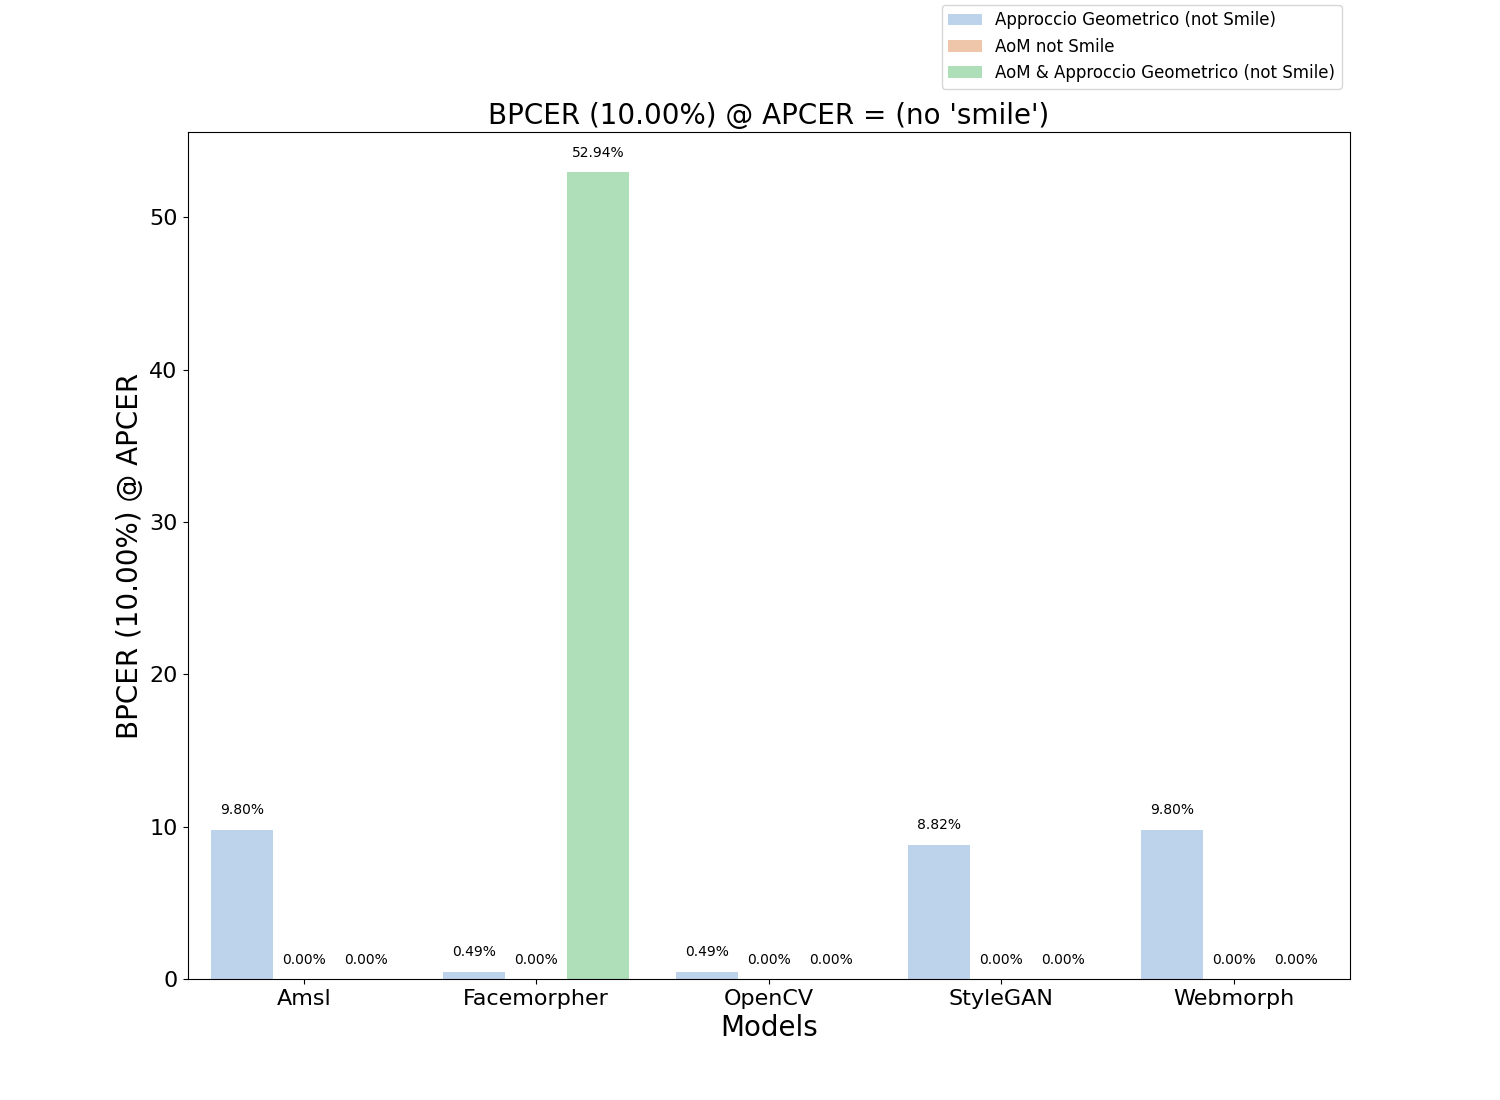
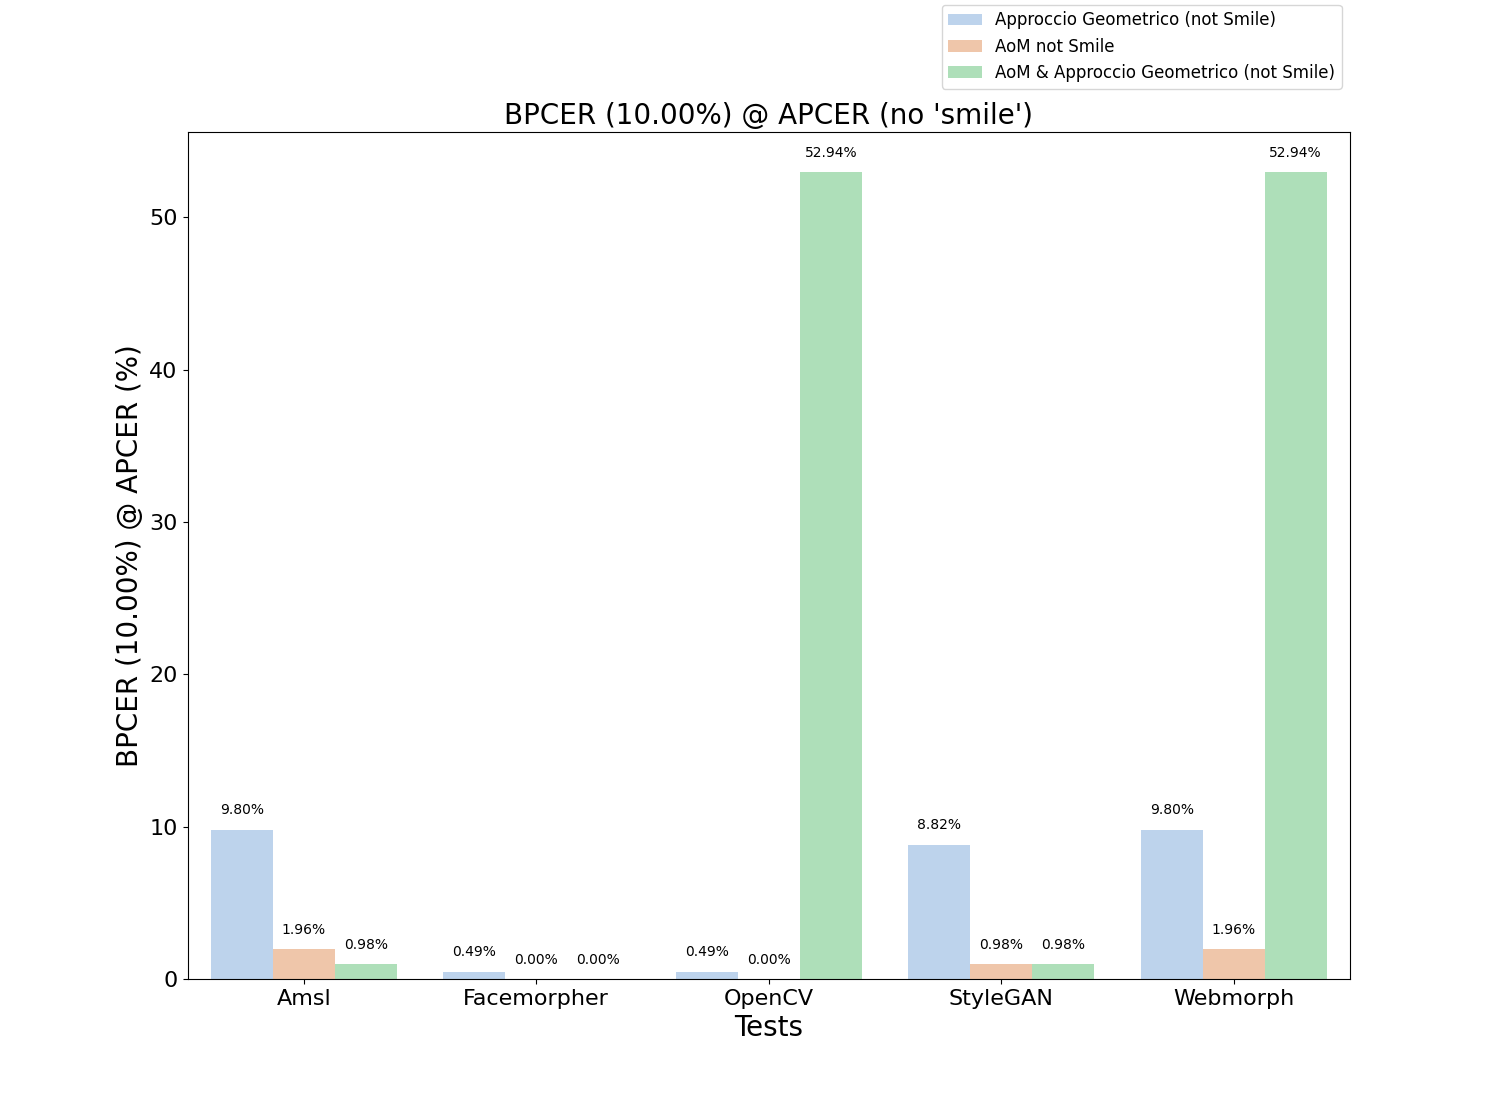
grafici

diff --git a/code/statistical_graphs.py b/code/statistical_graphs.py
@@ -8,11 +8,16 @@ models = ['Amsl', 'Amsl', 'Amsl',
           'StyleGAN', 'StyleGAN', 'StyleGAN',
           'Webmorph', 'Webmorph', 'Webmorph']
 
-sub_categories_no_smile = ['Approccio Geometrico (not Smile)', 'AoM not Smile', 'AoM & Approccio Geometrico (not Smile)',
-                           'Approccio Geometrico (not Smile)', 'AoM not Smile', 'AoM & Approccio Geometrico (not Smile)',
-                           'Approccio Geometrico (not Smile)', 'AoM not Smile', 'AoM & Approccio Geometrico (not Smile)',
-                           'Approccio Geometrico (not Smile)', 'AoM not Smile', 'AoM & Approccio Geometrico (not Smile)',
-                           'Approccio Geometrico (not Smile)', 'AoM not Smile', 'AoM & Approccio Geometrico (not Smile)']
+sub_categories_no_smile = ['Approccio Geometrico (not Smile)', 'AoM not Smile',
+                           'AoM & Approccio Geometrico (not Smile)',
+                           'Approccio Geometrico (not Smile)', 'AoM not Smile',
+                           'AoM & Approccio Geometrico (not Smile)',
+                           'Approccio Geometrico (not Smile)', 'AoM not Smile',
+                           'AoM & Approccio Geometrico (not Smile)',
+                           'Approccio Geometrico (not Smile)', 'AoM not Smile',
+                           'AoM & Approccio Geometrico (not Smile)',
+                           'Approccio Geometrico (not Smile)', 'AoM not Smile',
+                           'AoM & Approccio Geometrico (not Smile)']
 
 sub_categories_smile = ['Approccio Geometrico (Smile)', 'AoM Smile', 'AoM & Approccio Geometrico (Smile)',
                         'Approccio Geometrico (Smile)', 'AoM Smile', 'AoM & Approccio Geometrico (Smile)',
@@ -21,20 +26,18 @@ sub_categories_smile = ['Approccio Geometrico (Smile)', 'AoM Smile', 'AoM & Appr
                         'Approccio Geometrico (Smile)', 'AoM Smile', 'AoM & Approccio Geometrico (Smile)']
 
 # Accuracy - NO SMILE
-accuracy_no_smile = [95.52, 95.54, 99.29,
-                     98.18, 81.50, 98.72,
-                     98.79, 84.14, 92.52,
-                     98.71, 95.39, 97.05,
-                     94.63, 88.67, 95.54]
-
+accuracy_no_smile = [95.52, 17.52, 95.76,
+                     98.18, 95.54, 99.29,
+                     98.79, 93.76, 97.51,
+                     98.71, 70.17, 96.15,
+                     94.63, 24.04, 95.46]
 
 # Accuracy - SMILE
-accuracy_smile = [91.46, 98.32, 97.89,
-                  91.23, 83.52, 98.79,
-                  91.78, 88.29, 94.11,
-                  91.72, 96.21, 96.75,
-                  87.92, 91.16, 95.85]
-
+accuracy_smile = [91.46, 22.36, 97.76,
+                  91.23, 98.32, 98.79,
+                  91.78, 97.91, 98.79,
+                  91.72, 75.04, 98.56,
+                  87.92, 30.95, 98.72]
 
 #######################################################################################
 # eer compared with paper
@@ -56,21 +59,19 @@ eer_paper = [12.74, 15.18,
              9.82, 8.99,
              7.53, 12.35]
 
-
 # EER - NO SMILE
-eer_no_smile = [9.80, 3.38, 0.39,
-                2.20, 10.02, 2.04,
-                2.42, 8.59, 4.05,
-                8.99, 3.39, 4.29,
-                9.86, 6.14, 2.42]
-
+eer_no_smile = [9.80, 43.17, 3.66,
+                2.20, 2.41, 0.39,
+                2.42, 3.38, 2.70,
+                8.99, 16.16, 3.43,
+                9.86, 41.15, 3.80]
 
 # EER - SMILE
-eer_smile = [48.91, 0.98, 1.45,
-             47.70, 9.62, 3.92,
-             49.14, 6.83, 3.48,
-             45.66, 3.43, 4.73,
-             47.82, 5.16, 2.46]
+eer_smile = [48.91, 42.46, 4.77,
+             47.70, 0.98, 3.92,
+             49.14, 1.22, 3.92,
+             45.66, 14.57, 4.06,
+             47.82, 40.29, 3.97]
 
 #######################################################################################
 # *********  NO SMILE *********************
@@ -83,26 +84,25 @@ bpcr01 = [58.82, 100, 100,
           74.51, 100, 100]
 
 # BPCER (1.00%) @ APCER
-bpcr1 = [33.33, 49.02, 0,
-         26.47, 0, 52.94,
-         22.06, 18.63, 0,
-         42.16, 81.37, 16.70,
-         53.92, 38.24, 0.98]
+bpcr1 = [33.33, 100, 100,
+         26.47, 100, 0,
+         22.06, 100, 100,
+         42.16, 100, 100,
+         53.92, 100, 100]
 
 # BPCER (10.00%) @ APCER
-bpcr10 = [9.80, 0, 0,
-          0.49, 0, 52.94,
+bpcr10 = [9.80, 1.96, 0.98,
           0.49, 0, 0,
-          8.82, 0, 0,
-          9.80, 0, 0]
+          0.49, 0, 52.94,
+          8.82, 0.98, 0.98,
+          9.80, 1.96, 52.94]
 
 # BPCER (20.00%) @ APCER
-bpcr20 = [4.41, 0, 0,
-          0, 0, 52.94,
-          0.49, 0, 0,
-          4.41, 0, 0,
-          2.94, 0, 0]
-
+bpcr20 = [4.41, 1.96, 0.98,
+          0, 0, 0,
+          0.49, 0, 52.94,
+          4.41, 0, 0.98,
+          2.94, 0.98, 52.94]
 
 # *********  SMILE *********************
 
@@ -114,46 +114,45 @@ bpcr01_smile = [50.00, 100, 100,
                 50.00, 100, 100]
 
 # BPCER (1.00%) @ APCER
-bpcr1_smile = [50.00, 49.02, 27.94,
-               50.00, 0, 100,
-               49.50, 0, 0,
-               49.50, 37.74, 15.69,
-               49.50, 1.47, 1.96]
+bpcr1_smile = [50.00, 100, 9.31,
+               50.00, 0.49, 100,
+               49.50, 0.49, 100,
+               49.50, 2.94, 6.37,
+               49.50, 100, 10.78]
 
 # BPCER (10.00%) @ APCER
-bpcr10_smile = [49.50, 0, 0,
+bpcr10_smile = [49.50, 2.94, 5.88,
                 48.52, 0, 100,
-                48.52, 0, 0,
-                48.52, 0, 0,
-                48.52, 0, 0]
+                48.52, 0, 100,
+                48.52, 0.98, 6.37,
+                48.52, 1.47, 10.78]
 
 # BPCER (20.00%) @ APCER
-bpcr20_smile = [48.52, 0, 0,
+bpcr20_smile = [48.52, 1.47, 5.88,
                 48.52, 0, 100,
-                48.52, 0, 0,
-                48.52, 0, 0,
-                48.52, 0, 0]
+                48.52, 0, 100,
+                48.52, 0, 6.37,
+                48.52, 0.98, 10.78]
 
 #######################################################################################
 
 # Creazione del grafico a colonne con sottocategorie
 ax = sns.barplot(x=models, y=bpcr20_smile, hue=sub_categories_smile,
-            palette='pastel', saturation=0.7, alpha=0.8)
+                 palette='pastel', saturation=0.7, alpha=0.8)
 
 # Aggiungi il valore sulle barre
 for p in ax.patches:
     height = p.get_height()
     ax.text(p.get_x() + p.get_width() / 2, height + 1, f'{height:.2f}%', ha="center", fontsize=10)
 
-
 # Grandezza grafico
 fig = plt.gcf()
 fig.set_size_inches(15, 11)
 
 # Aggiunta di etichette
-plt.xlabel('Models', fontsize=20)
-plt.ylabel('BPCER (20.00%) @ APCER', fontsize=20)
-plt.title("BPCER (20.00%) @ APCER = (con 'smile')", fontsize=20)
+plt.xlabel('Tests', fontsize=20)
+plt.ylabel('BPCER (20.00%) @ APCER (%)', fontsize=20)
+plt.title("BPCER (20.00%) @ APCER (con 'smile')", fontsize=20)
 
 # Modifica della grandezza delle colonne
 plt.xticks(fontsize=16)
@@ -164,4 +163,3 @@ plt.legend(loc="upper right", bbox_to_anchor=(1.0, 1.16), fontsize=12)
 
 # Visualizzazione del grafico
 plt.show()
-
